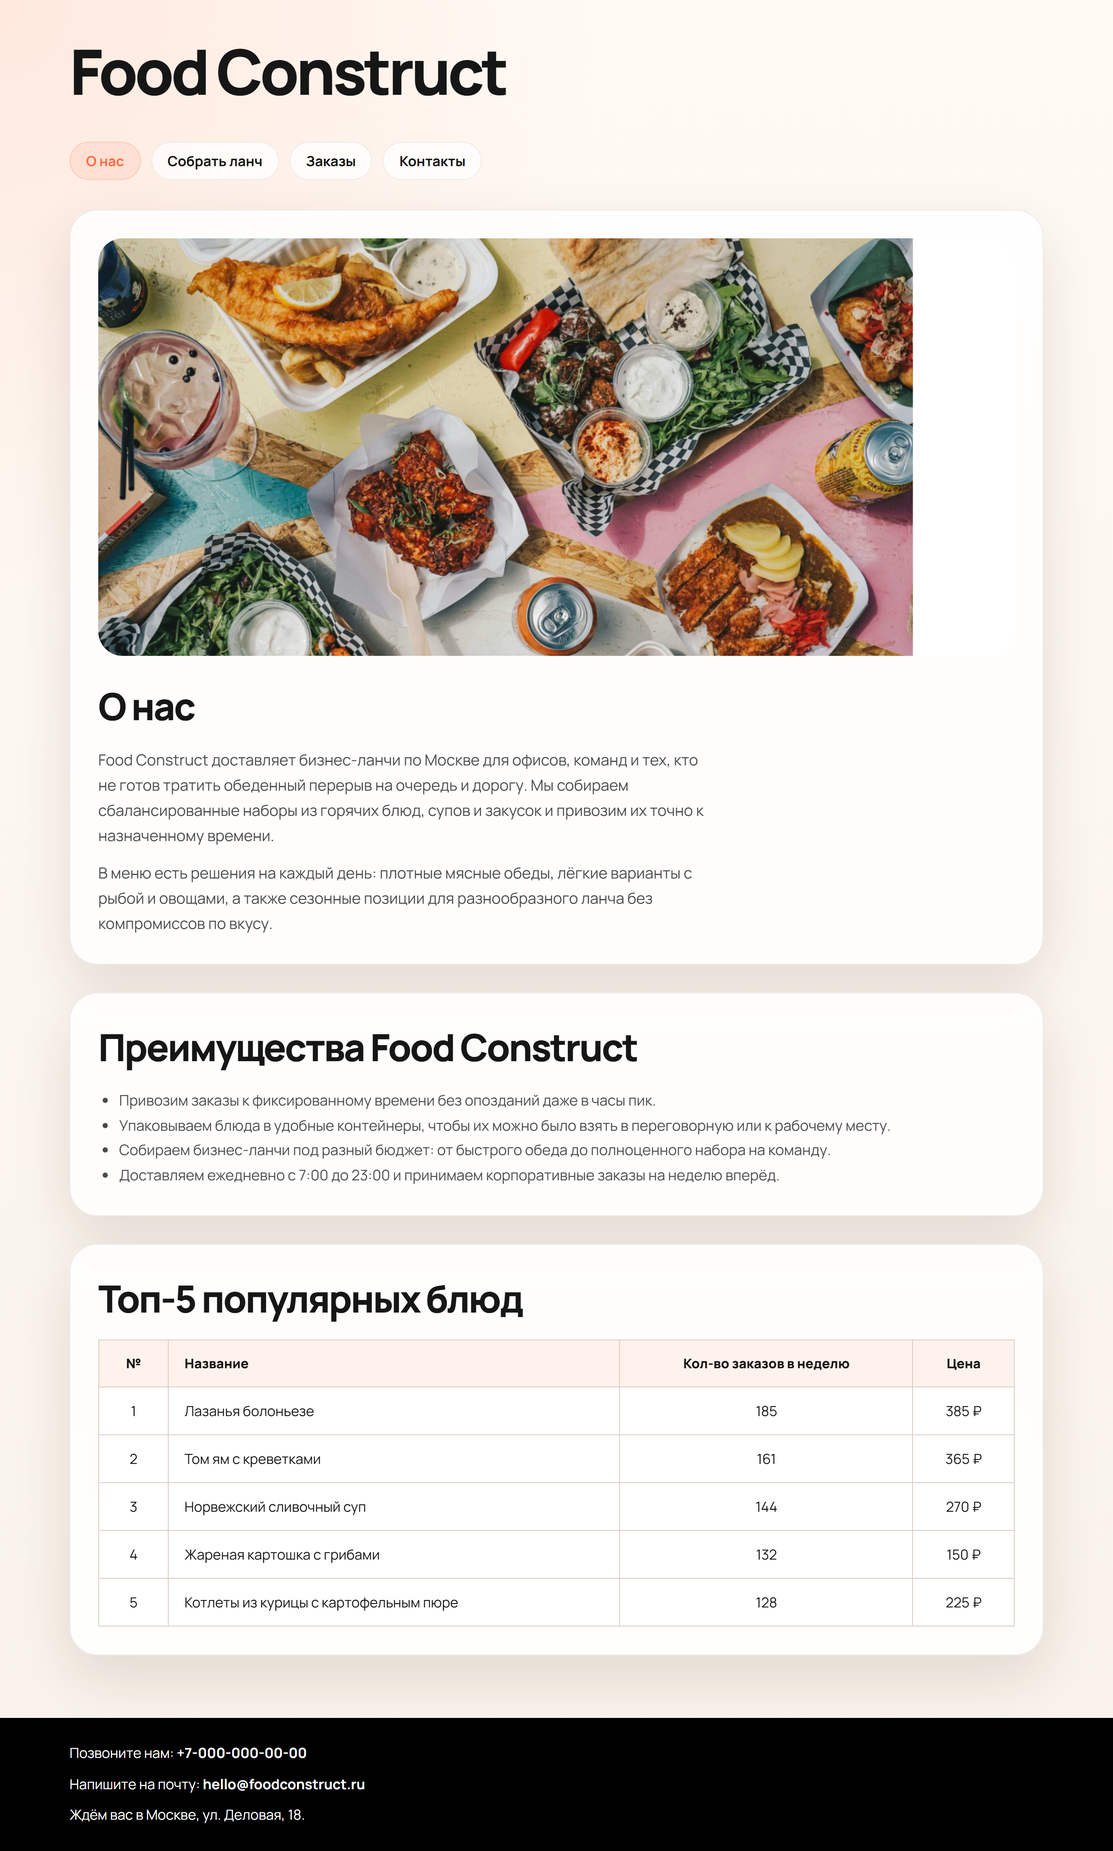
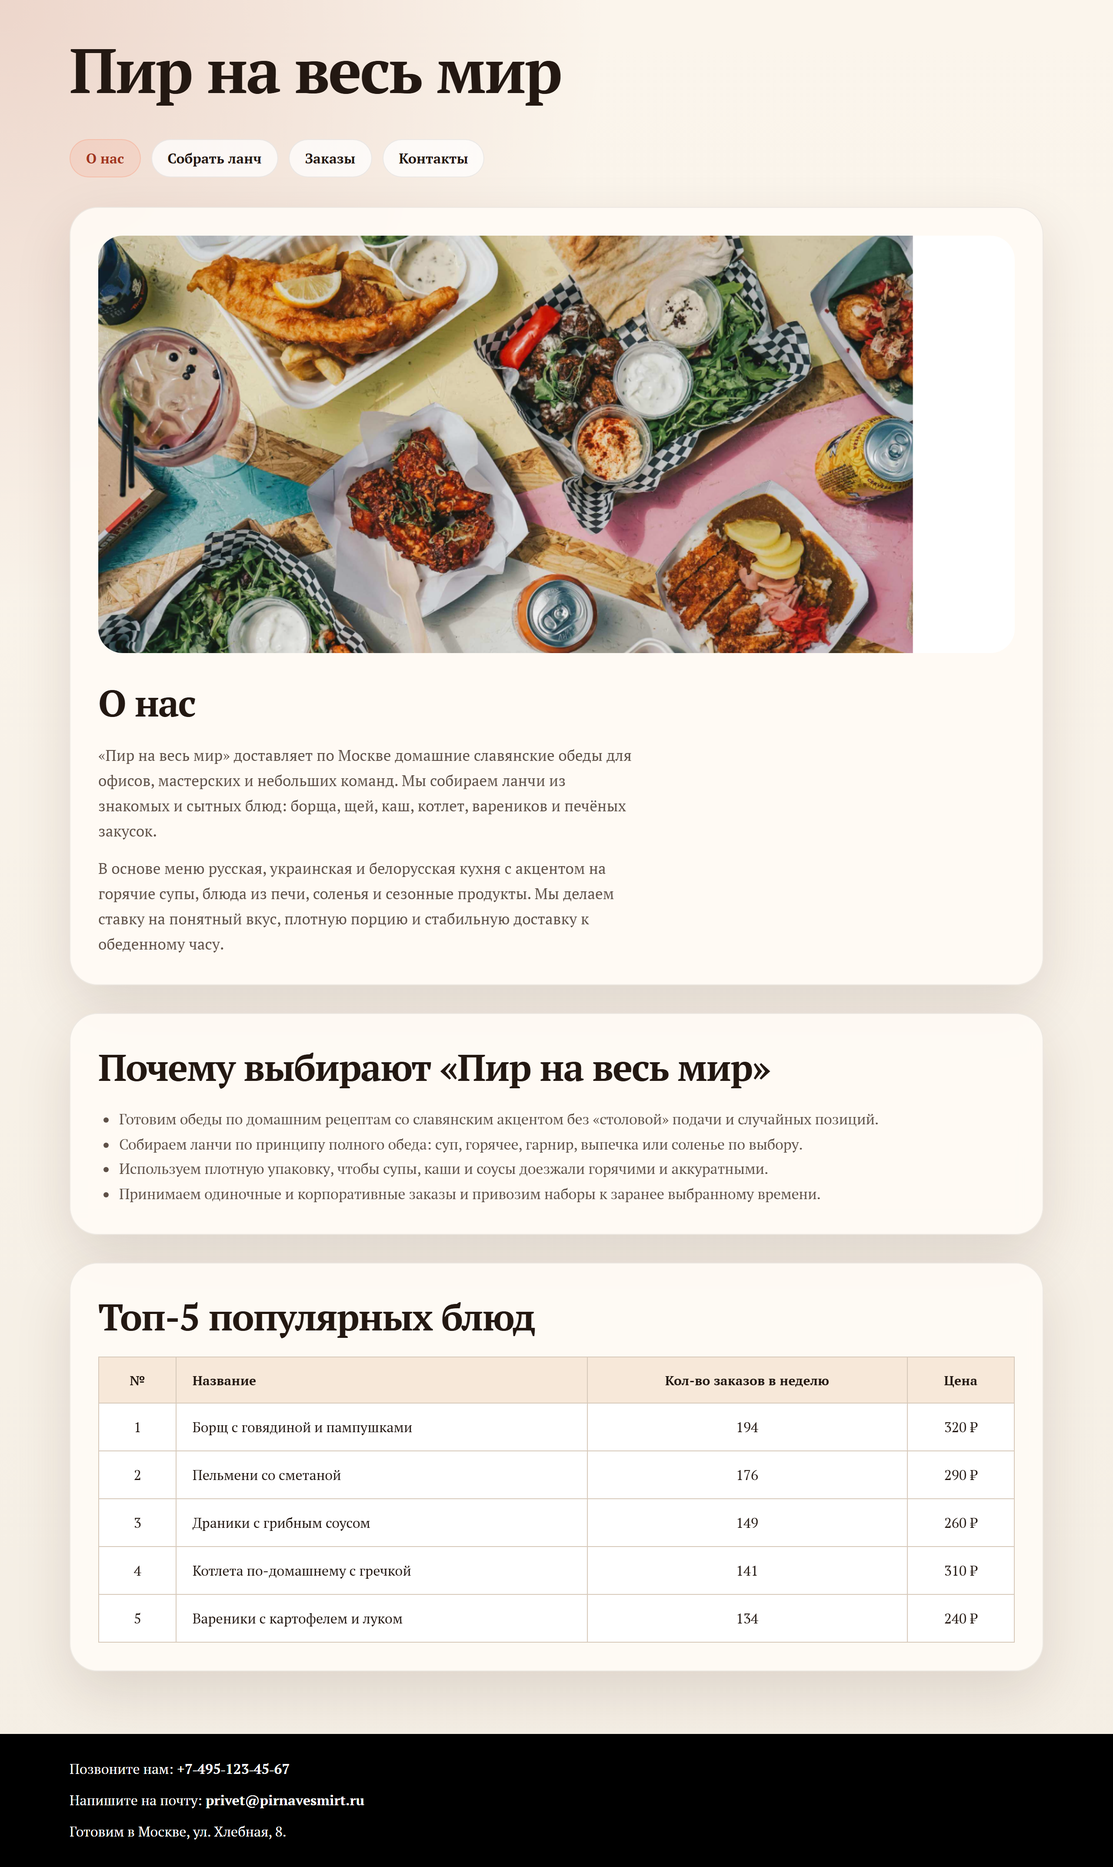
feat: switch lab 01 to slavic cuisine theme

diff --git a/index.html b/index.html
@@ -3,16 +3,16 @@
 <head>
   <meta charset="UTF-8">
   <meta name="viewport" content="width=device-width, initial-scale=1.0">
-  <title>Food Construct | Доставка бизнес-ланчей</title>
+  <title>Пир на весь мир | Доставка славянских обедов</title>
   <link rel="preconnect" href="https://fonts.googleapis.com">
   <link rel="preconnect" href="https://fonts.gstatic.com" crossorigin>
-  <link href="https://fonts.googleapis.com/css2?family=Manrope:wght@400;500;700;800&display=swap" rel="stylesheet">
+  <link href="https://fonts.googleapis.com/css2?family=PT+Serif:wght@400;700&display=swap" rel="stylesheet">
   <link rel="stylesheet" href="styles/style.css">
 </head>
 <body>
   <header class="site-header">
     <div class="container">
-      <h1 class="brand">Food Construct</h1>
+      <h1 class="brand">Пир на весь мир</h1>
       <nav class="site-nav" aria-label="Основная навигация">
         <a href="index.html" aria-current="page">О нас</a>
         <a href="menu.html">Собрать ланч</a>
@@ -25,24 +25,25 @@
   <main class="site-main">
     <div class="container">
       <section class="section about-section" aria-labelledby="about-title">
-        <img class="hero-image" src="assets/images/hero-lunch.png" alt="Бизнес-ланчи Food Construct с горячими блюдами, салатами и напитками">
+        <img class="hero-image" src="assets/images/hero-lunch.png" alt="Домашние славянские обеды с горячими блюдами, закусками и напитками">
         <h2 id="about-title" class="section-title">О нас</h2>
         <p class="lead">
-          Food Construct доставляет бизнес-ланчи по Москве для офисов, команд и тех, кто не готов тратить обеденный перерыв на очередь и дорогу.
-          Мы собираем сбалансированные наборы из горячих блюд, супов и закусок и привозим их точно к назначенному времени.
+          «Пир на весь мир» доставляет по Москве домашние славянские обеды для офисов, мастерских и небольших команд.
+          Мы собираем ланчи из знакомых и сытных блюд: борща, щей, каш, котлет, вареников и печёных закусок.
         </p>
         <p class="lead">
-          В меню есть решения на каждый день: плотные мясные обеды, лёгкие варианты с рыбой и овощами, а также сезонные позиции для разнообразного ланча без компромиссов по вкусу.
+          В основе меню русская, украинская и белорусская кухня с акцентом на горячие супы, блюда из печи, соленья и сезонные продукты.
+          Мы делаем ставку на понятный вкус, плотную порцию и стабильную доставку к обеденному часу.
         </p>
       </section>
 
       <section class="section" aria-labelledby="advantages-title">
-        <h2 id="advantages-title" class="section-title">Преимущества Food Construct</h2>
+        <h2 id="advantages-title" class="section-title">Почему выбирают «Пир на весь мир»</h2>
         <ul class="advantages-list">
-          <li>Привозим заказы к фиксированному времени без опозданий даже в часы пик.</li>
-          <li>Упаковываем блюда в удобные контейнеры, чтобы их можно было взять в переговорную или к рабочему месту.</li>
-          <li>Собираем бизнес-ланчи под разный бюджет: от быстрого обеда до полноценного набора на команду.</li>
-          <li>Доставляем ежедневно с 7:00 до 23:00 и принимаем корпоративные заказы на неделю вперёд.</li>
+          <li>Готовим обеды по домашним рецептам со славянским акцентом без «столовой» подачи и случайных позиций.</li>
+          <li>Собираем ланчи по принципу полного обеда: суп, горячее, гарнир, выпечка или соленье по выбору.</li>
+          <li>Используем плотную упаковку, чтобы супы, каши и соусы доезжали горячими и аккуратными.</li>
+          <li>Принимаем одиночные и корпоративные заказы и привозим наборы к заранее выбранному времени.</li>
         </ul>
       </section>
 
@@ -61,33 +62,33 @@
             <tbody>
               <tr>
                 <td>1</td>
-                <td>Лазанья болоньезе</td>
-                <td>185</td>
-                <td>385 ₽</td>
+                <td>Борщ с говядиной и пампушками</td>
+                <td>194</td>
+                <td>320 ₽</td>
               </tr>
               <tr>
                 <td>2</td>
-                <td>Том ям с креветками</td>
-                <td>161</td>
-                <td>365 ₽</td>
+                <td>Пельмени со сметаной</td>
+                <td>176</td>
+                <td>290 ₽</td>
               </tr>
               <tr>
                 <td>3</td>
-                <td>Норвежский сливочный суп</td>
-                <td>144</td>
-                <td>270 ₽</td>
+                <td>Драники с грибным соусом</td>
+                <td>149</td>
+                <td>260 ₽</td>
               </tr>
               <tr>
                 <td>4</td>
-                <td>Жареная картошка с грибами</td>
-                <td>132</td>
-                <td>150 ₽</td>
+                <td>Котлета по-домашнему с гречкой</td>
+                <td>141</td>
+                <td>310 ₽</td>
               </tr>
               <tr>
                 <td>5</td>
-                <td>Котлеты из курицы с картофельным пюре</td>
-                <td>128</td>
-                <td>225 ₽</td>
+                <td>Вареники с картофелем и луком</td>
+                <td>134</td>
+                <td>240 ₽</td>
               </tr>
             </tbody>
           </table>
@@ -98,9 +99,9 @@
 
   <footer id="contacts" class="site-footer">
     <div class="container footer-grid">
-      <p>Позвоните нам: <a href="tel:+70000000000">+7&#8209;000&#8209;000&#8209;00&#8209;00</a></p>
-      <p>Напишите на почту: <a href="mailto:hello@foodconstruct.ru">hello@foodconstruct.ru</a></p>
-      <p>Ждём вас в Москве, ул. Деловая, 18.</p>
+      <p>Позвоните нам: <a href="tel:+74951234567">+7&#8209;495&#8209;123&#8209;45&#8209;67</a></p>
+      <p>Напишите на почту: <a href="mailto:privet@pirnavesmir.ru">privet@pirnavesmir.ru</a></p>
+      <p>Готовим в Москве, ул. Хлебная, 8.</p>
     </div>
   </footer>
 </body>

diff --git a/menu.html b/menu.html
@@ -3,16 +3,16 @@
 <head>
   <meta charset="UTF-8">
   <meta name="viewport" content="width=device-width, initial-scale=1.0">
-  <title>Food Construct | Собрать ланч</title>
+  <title>Пир на весь мир | Собрать славянский ланч</title>
   <link rel="preconnect" href="https://fonts.googleapis.com">
   <link rel="preconnect" href="https://fonts.gstatic.com" crossorigin>
-  <link href="https://fonts.googleapis.com/css2?family=Manrope:wght@400;500;700;800&display=swap" rel="stylesheet">
+  <link href="https://fonts.googleapis.com/css2?family=PT+Serif:wght@400;700&display=swap" rel="stylesheet">
   <link rel="stylesheet" href="styles/style.css">
 </head>
 <body>
   <header class="site-header">
     <div class="container">
-      <h1 class="brand">Food Construct</h1>
+      <h1 class="brand">Пир на весь мир</h1>
       <nav class="site-nav" aria-label="Основная навигация">
         <a href="index.html">О нас</a>
         <a href="menu.html" aria-current="page">Собрать ланч</a>
@@ -26,10 +26,10 @@
     <div class="container">
       <section class="section placeholder-section" aria-labelledby="menu-page-title">
         <p class="eyebrow">Следующая лабораторная работа</p>
-        <h2 id="menu-page-title" class="section-title">Страница меню будет развита во второй лабораторной</h2>
+        <h2 id="menu-page-title" class="section-title">Во второй лабораторной здесь появится меню славянских обедов</h2>
         <p class="lead">
-          Сейчас здесь размещена рабочая заглушка, чтобы навигация первой лабораторной уже вела на реальные страницы сайта.
-          В следующем этапе в этом разделе появится каталог блюд и полноценная вёрстка страницы с меню.
+          Страница уже подготовлена под каталог домашних блюд: борщей, щей, пельменей, вареников, каш, драников и горячих закусок.
+          В следующем этапе здесь появится полноценная сетка меню, карточки блюд и структура, от которой можно будет оттолкнуться в следующих лабах.
         </p>
         <a class="action-link" href="index.html">Вернуться на главную</a>
       </section>
@@ -38,9 +38,9 @@
 
   <footer id="contacts" class="site-footer">
     <div class="container footer-grid">
-      <p>Позвоните нам: <a href="tel:+70000000000">+7&#8209;000&#8209;000&#8209;00&#8209;00</a></p>
-      <p>Напишите на почту: <a href="mailto:hello@foodconstruct.ru">hello@foodconstruct.ru</a></p>
-      <p>Ждём вас в Москве, ул. Деловая, 18.</p>
+      <p>Позвоните нам: <a href="tel:+74951234567">+7&#8209;495&#8209;123&#8209;45&#8209;67</a></p>
+      <p>Напишите на почту: <a href="mailto:privet@pirnavesmir.ru">privet@pirnavesmir.ru</a></p>
+      <p>Готовим в Москве, ул. Хлебная, 8.</p>
     </div>
   </footer>
 </body>

diff --git a/order.html b/order.html
@@ -3,16 +3,16 @@
 <head>
   <meta charset="UTF-8">
   <meta name="viewport" content="width=device-width, initial-scale=1.0">
-  <title>Food Construct | Заказы</title>
+  <title>Пир на весь мир | Заказы</title>
   <link rel="preconnect" href="https://fonts.googleapis.com">
   <link rel="preconnect" href="https://fonts.gstatic.com" crossorigin>
-  <link href="https://fonts.googleapis.com/css2?family=Manrope:wght@400;500;700;800&display=swap" rel="stylesheet">
+  <link href="https://fonts.googleapis.com/css2?family=PT+Serif:wght@400;700&display=swap" rel="stylesheet">
   <link rel="stylesheet" href="styles/style.css">
 </head>
 <body>
   <header class="site-header">
     <div class="container">
-      <h1 class="brand">Food Construct</h1>
+      <h1 class="brand">Пир на весь мир</h1>
       <nav class="site-nav" aria-label="Основная навигация">
         <a href="index.html">О нас</a>
         <a href="menu.html">Собрать ланч</a>
@@ -26,9 +26,9 @@
     <div class="container">
       <section class="section placeholder-section" aria-labelledby="order-page-title">
         <p class="eyebrow">Будущая форма заказа</p>
-        <h2 id="order-page-title" class="section-title">Раздел заказов подготовлен под третью лабораторную</h2>
+        <h2 id="order-page-title" class="section-title">Раздел заказов подготовлен под оформление славянских ланчей</h2>
         <p class="lead">
-          Страница уже подключена к общей навигации и стилям, а дальше будет расширена формой оформления бизнес-ланча, валидацией и логикой заказа.
+          Страница уже подключена к общей навигации и стилям, а дальше будет расширена формой заказа супов, горячих блюд, гарниров и выпечки с валидацией и логикой оформления.
         </p>
         <a class="action-link" href="index.html">Открыть главную страницу</a>
       </section>
@@ -37,9 +37,9 @@
 
   <footer id="contacts" class="site-footer">
     <div class="container footer-grid">
-      <p>Позвоните нам: <a href="tel:+70000000000">+7&#8209;000&#8209;000&#8209;00&#8209;00</a></p>
-      <p>Напишите на почту: <a href="mailto:hello@foodconstruct.ru">hello@foodconstruct.ru</a></p>
-      <p>Ждём вас в Москве, ул. Деловая, 18.</p>
+      <p>Позвоните нам: <a href="tel:+74951234567">+7&#8209;495&#8209;123&#8209;45&#8209;67</a></p>
+      <p>Напишите на почту: <a href="mailto:privet@pirnavesmir.ru">privet@pirnavesmir.ru</a></p>
+      <p>Готовим в Москве, ул. Хлебная, 8.</p>
     </div>
   </footer>
 </body>

diff --git a/styles/style.css b/styles/style.css
@@ -1,13 +1,13 @@
 :root {
-  --bg: #f8f2ea;
-  --surface: rgba(255, 255, 255, 0.86);
+  --bg: #f4eee4;
+  --surface: rgba(255, 251, 245, 0.9);
   --surface-strong: #ffffff;
-  --text: #161616;
-  --muted: #4a4a4a;
-  --accent: #ff6c42;
-  --accent-dark: #d94f29;
-  --line: #d9cfc4;
-  --shadow: 0 24px 64px rgba(55, 32, 19, 0.12);
+  --text: #231812;
+  --muted: #5f5148;
+  --accent: #a3341f;
+  --accent-dark: #7e2414;
+  --line: #d7c9ba;
+  --shadow: 0 24px 64px rgba(61, 34, 20, 0.13);
 }
 
 * {
@@ -21,13 +21,13 @@ html {
 body {
   margin: 0;
   padding: 0;
-  font-family: "Manrope", sans-serif;
+  font-family: "PT Serif", serif;
   font-size: 16px;
   font-weight: 400;
   color: var(--text);
   background:
-    radial-gradient(circle at top left, rgba(255, 108, 66, 0.12), transparent 28%),
-    linear-gradient(180deg, #fffaf4 0%, var(--bg) 100%);
+    radial-gradient(circle at top left, rgba(163, 52, 31, 0.16), transparent 28%),
+    linear-gradient(180deg, #fbf5ec 0%, var(--bg) 100%);
 }
 
 img {
@@ -38,7 +38,7 @@ img {
 
 a {
   text-decoration: none;
-  font-family: "Manrope", sans-serif;
+  font-family: "PT Serif", serif;
   font-size: 1rem;
   color: var(--text);
   transition: color 0.2s ease, background-color 0.2s ease, border-color 0.2s ease;
@@ -64,8 +64,8 @@ td {
 
 th {
   font-size: 0.95rem;
-  font-weight: 800;
-  background-color: #fff2ec;
+  font-weight: 700;
+  background-color: #f7e8d9;
 }
 
 td {
@@ -84,8 +84,8 @@ td {
 .brand {
   margin: 0 0 20px;
   font-size: clamp(2.6rem, 6vw, 4.5rem);
-  font-weight: 800;
-  letter-spacing: -0.05em;
+  font-weight: 700;
+  letter-spacing: -0.03em;
 }
 
 .site-nav {
@@ -137,8 +137,8 @@ td {
 .section-title {
   margin: 0 0 18px;
   font-size: clamp(1.8rem, 4vw, 2.7rem);
-  font-weight: 800;
-  letter-spacing: -0.04em;
+  font-weight: 700;
+  letter-spacing: -0.03em;
 }
 
 .hero-image {
@@ -192,7 +192,7 @@ td {
 .eyebrow {
   margin: 0 0 12px;
   font-size: 0.95rem;
-  font-weight: 800;
+  font-weight: 700;
   letter-spacing: 0.08em;
   text-transform: uppercase;
   color: var(--accent);

diff --git a/reports/lab-01/report.md b/reports/lab-01/report.md
@@ -1,7 +1,7 @@
 # Лабораторная работа № 1
 
-Реализована главная страница Food Construct на чистом HTML и CSS.  
-Подключён Google Font, собраны обязательные секции, таблица популярных блюд, якорь на контакты и рабочая навигация.
+Реализована главная страница сервиса «Пир на весь мир» на чистом HTML и CSS.  
+Сайт переведён в тематику славянской кухни: обновлены бренд, тексты, популярные блюда и заготовки под будущие страницы.
 
 Проверки:
 - десктопный и мобильный рендер через Playwright
